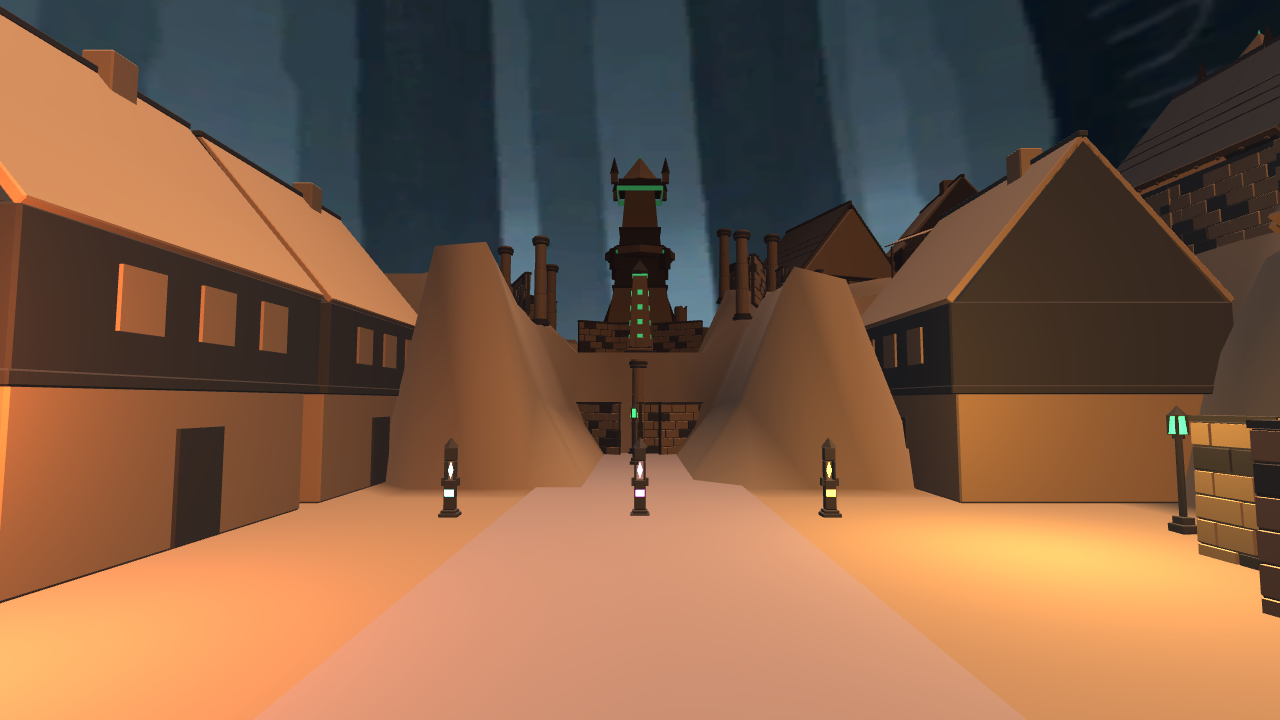
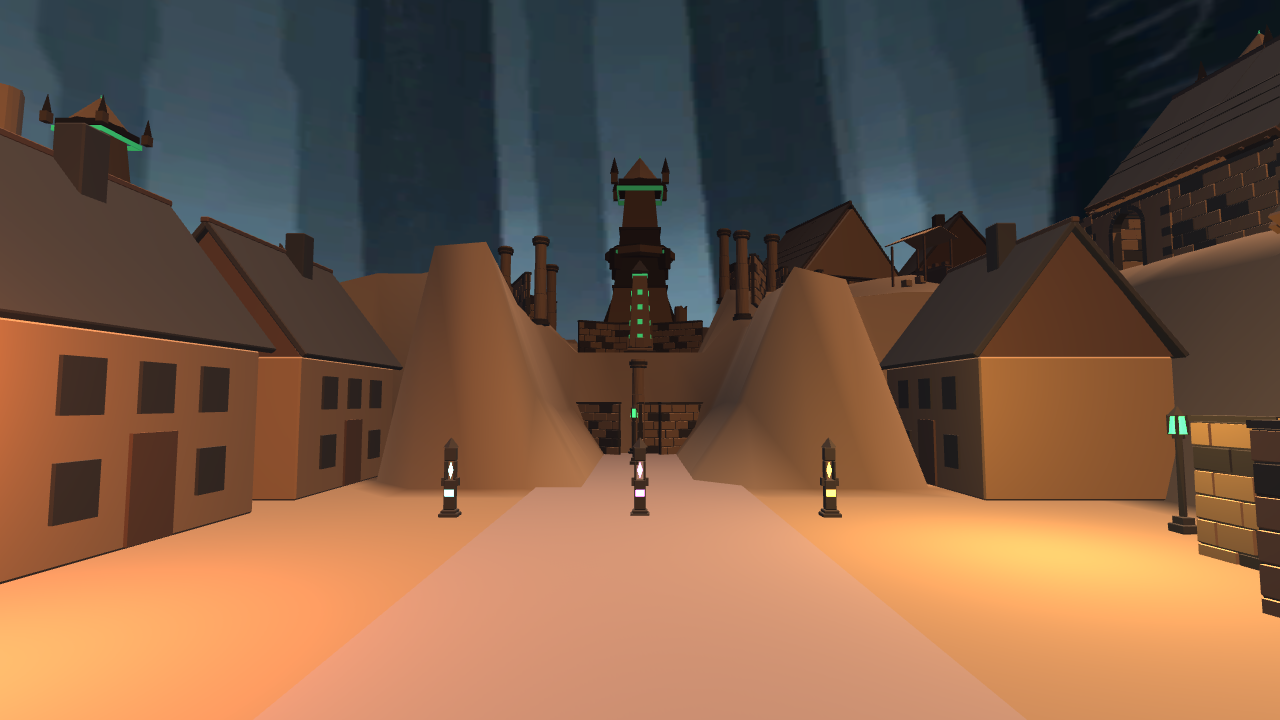
live view: per-realm shell variants

Changed region(s): [[0.0, 0.0, 0.3438, 0.8556], [0.6562, 0.1833, 1.0, 0.7028]]

diff --git a/kit-feedback.md b/kit-feedback.md
@@ -42,6 +42,13 @@
 > 각 pivot-at-base·`_COL`·LOD1(≤500 tri, 원경 필러라 1드로콜 통짜 OK)·팔레트 4슬롯만.
 > 4080이 `_archetype`별로 배선한다(성채는 modular 조립체가 리드라 셸 변형 불필요). 그다음
 > 후보: `rampart_ribbon`(외곽 성벽 병합 저폴리 리본, 지금 스텁). 예산 여유 충분(킷 17.9k/22k).
+>
+> **[4080] 셸 변형 4종(cottage/tower/hall/block) 수령·배선 완료.** `RealmShell()`이 archetype별로
+> 고름(봉화=코티지·첨탑=타워·특허=블록·자오선=홀·성채=기본). 셸별 충돌/패드 반경도 폭에 맞춰
+> 배선(§3.6 무겹침 유지). 원경 필러가 왕국마다 달라짐 — 좋다. **다음 작업(원하면)**:
+> `rampart_ribbon`(외곽 성벽 병합 저폴리 리본, 지금 스텁이라 외곽이 지형 berm만) — 스펙: 곡선/
+> 직선 성벽 세그먼트를 이을 수 있는 4~8m 리본 조각 1~2종, 낮은 흉벽+총안, LOD1 ≤400 tri,
+> stone_dark. 없어도 씬은 완성이라 우선순위는 낮음. 그 외 인게임 이상 없음.
 
 ---
 
@@ -341,6 +348,30 @@
   (커밋 `a6fffc8`). **§3.1 랜드마크 실루엣 판정 수렴** — 추가 보강 불필요.
   알려달라. 아직 얇으면 예산 여유가 ~3.8k 남아 있으니 중단 갤러리를 하나 더 넣거나
   버트레스를 지면까지 늘리는 쪽으로 더 키울 수 있다.
+
+## 라운드 12 (2026-08-15, **3070 응답** — 왕국 아키타입별 셸 변형 4종)
+
+요청대로 원경 필러 셸을 아키타입별로 나눴다. 전부 pivot-at-base·`_COL`·팔레트 4슬롯 내.
+**LOD1은 요청 상한 500 아래**(씬이 인스턴스하는 건 LOD1이므로 이게 실제 비용이다).
+
+| 조각 | LOD0/LOD1 | 매싱 | 대상 왕국 |
+|---|---|---|---|
+| `shell_cottage` | 380/380 | 7×6m, 벽 4.4m, 피치 52° | beacon-marches |
+| `shell_tower` | 328/328 | 4.6×4.6m, 벽 12.6m, 급경사 피라미드+벨트코스 | cognition-spire |
+| `shell_hall` | 512/450 | 14×7m, 벽 5.0m, 단일 장축 마루 | archive-meridian |
+| `shell_block` | 372/372 | 9×9m, 벽 6.4m, 완경사+균등 창 격자 | patentnet-citadel |
+
+- **차별화는 비례와 지붕 형태에만 걸었다.** 원경 LOD1 필러라 표면 디테일은 어차피 안
+  읽히고, 구별돼야 하는 건 실루엣이다. tower만 유일하게 수직(다른 셋은 수평)이라
+  cognition-spire의 원경이 자기 랜드마크를 반복하는 첨탑 숲으로 읽힌다. block은 입면에
+  변화를 일부러 안 줬다 — wall_lattice 아키타입이니 반복이 곧 정체성이다.
+- **버그 하나 잡음**: 문과 창이 같은 베이에 겹쳐 검은 창 패널이 목재 문을 뚫고 나왔다
+  (cottage·tower·block 해당, hall만 우연히 회피). 창 배치가 문간을 건너뛰도록 수정.
+- `building_shell_small`은 **손대지 않았다** — 이미 배선·승인된 조각이라 그대로 두고
+  4종을 추가만 했다. 원한다면 그것도 아키타입 하나에 배정하면 된다.
+- 킷 29종 **19,820/22,000**(90%). 다음 후보로 언급한 `rampart_ribbon`은 여유 ~2.2k라
+  들어가지만, 스펙(외곽 성벽 병합 저폴리 리본)이 대략적이라 **원하는 런 길이·높이·
+  타일링 방식(단일 메시 통짜인지, 반복 모듈인지)을 알려주면** 바로 만든다.
 
 ## 4080 병렬 작업 (참고, 3070은 무시)
 
